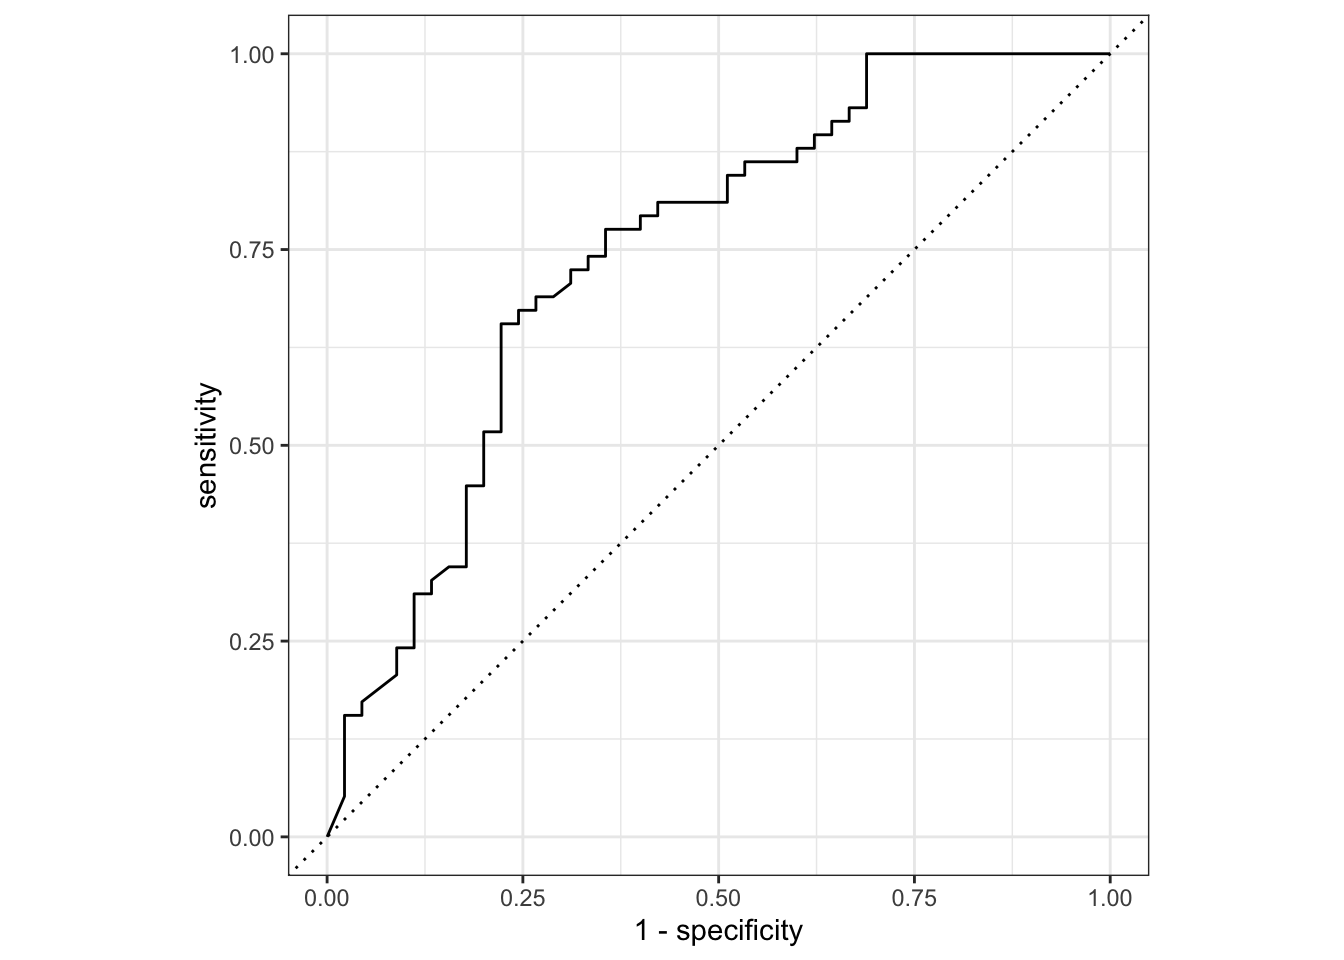
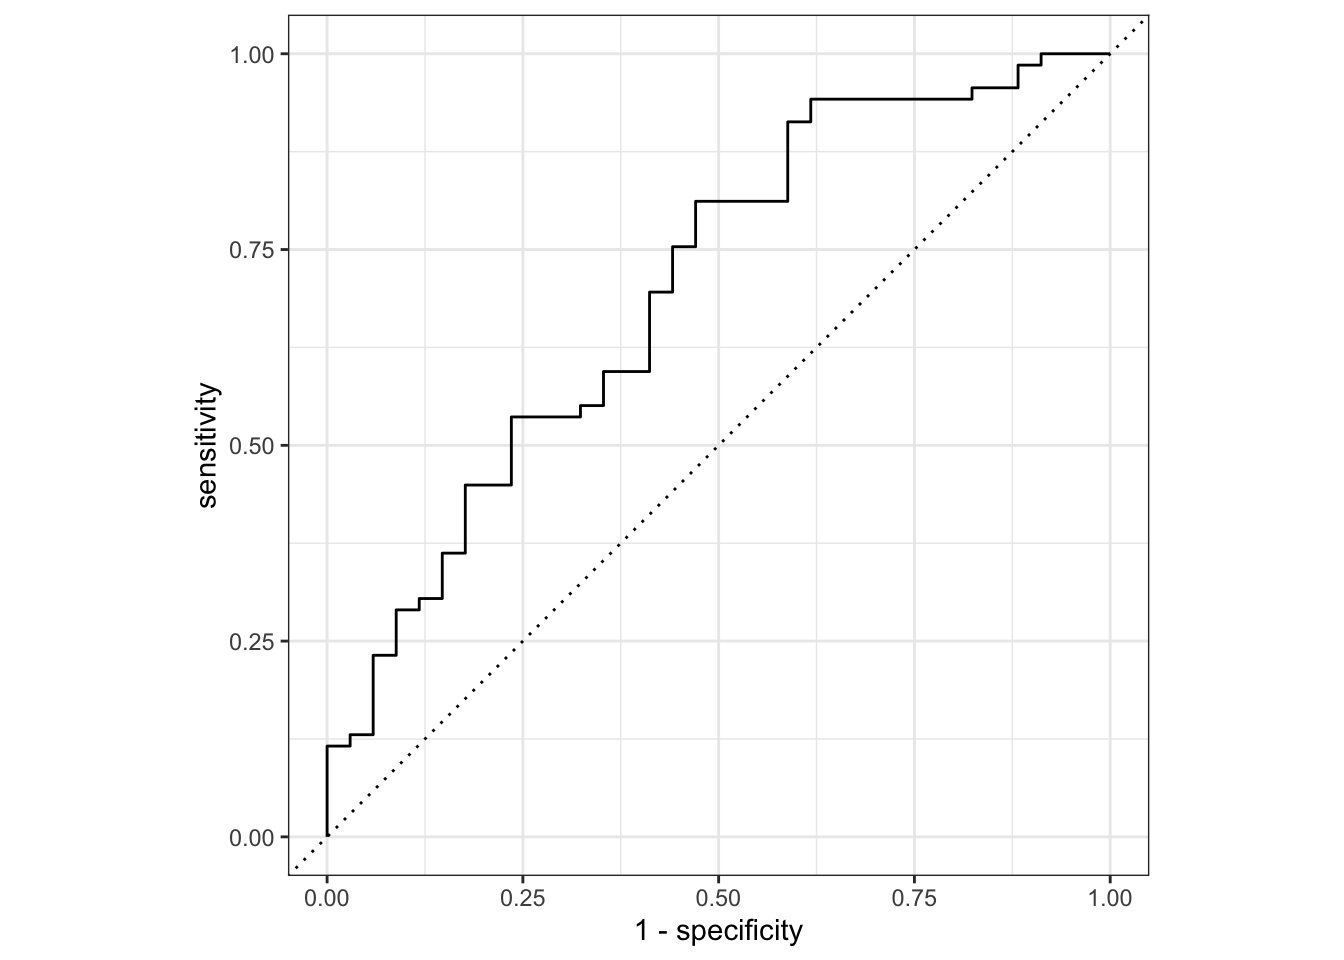
cleaning

diff --git a/docs/classification-knn.html b/docs/classification-knn.html
@@ -574,7 +574,7 @@ code span.wa { color: #60a0b0; font-weight: bold; font-style: italic; } /* Warni
 </header><div class="cell">
 
 </div>
-<p><em>Version vom November 25, 2022 um 10:18:04</em></p>
+<p><em>Version vom November 25, 2022 um 10:59:05</em></p>
 <div class="quarto-figure quarto-figure-center">
 <figure class="figure"><p><img src="images/caution.png" class="img-fluid figure-img" style="width:50.0%"></p>
 </figure>
@@ -840,8 +840,6 @@ code span.wa { color: #60a0b0; font-weight: bold; font-style: italic; } /* Warni
 <p>Soweit so gut. Und wie entscheide ich jetzt was weit weg ist? Wenn wir uns mit dem <span class="math inline">\(k\)</span>-NN Algorithmus näher beschäftigen würden, dann werden wir feststellen, dass es eine Vielzahl an Abstandsmaßen gibt. Wir du dir vorstellen kannst, kann man die Entfernung zwischen zwei Punkten als den absoluten Abstand messen. Oder aber als den quadratischen Abstand. Es wäre auch möglich einen gewichteten Abstand einzuführen, so dass nähere Beobachtungen einen größeren Einfluss auf die Vorhersage haben als weiter entfernte Beobachtungen. Dann würden wir auch das Problem von geraden <span class="math inline">\(k\)</span> Anzahlen lösen. Du musst dann leider in den jeweiligen R Paketen schauen, welche Optionen es dort geben mag. Wir werden uns hier auf eins der R Pakete mit <code>kknn</code> konzentrieren.m</p>
 </section><section id="klassifikation" class="level2" data-number="52.4"><h2 data-number="52.4" class="anchored" data-anchor-id="klassifikation">
 <span class="header-section-number">52.4</span> Klassifikation</h2>
-<p>https://rpubs.com/Nilafhiosagam/574373</p>
-<p>https://parsnip.tidymodels.org/reference/nearest_neighbor.html</p>
 <div class="cell">
 <div class="sourceCode" id="cb3"><pre class="downlit sourceCode r code-with-copy"><code class="sourceCode R"><span><span class="va">pig_data_split</span> <span class="op">&lt;-</span> <span class="fu">initial_split</span><span class="op">(</span><span class="va">pig_tbl</span>, prop <span class="op">=</span> <span class="fl">3</span><span class="op">/</span><span class="fl">4</span><span class="op">)</span></span>
 <span></span>
@@ -889,7 +887,7 @@ code span.wa { color: #60a0b0; font-weight: bold; font-style: italic; } /* Warni
 <pre><code># A tibble: 1 × 3
   .metric .estimator .estimate
   &lt;chr&gt;   &lt;chr&gt;          &lt;dbl&gt;
-1 roc_auc binary         0.746</code></pre>
+1 roc_auc binary         0.699</code></pre>
 </div>
 </div>
 <div class="cell">
@@ -899,7 +897,7 @@ code span.wa { color: #60a0b0; font-weight: bold; font-style: italic; } /* Warni
 <pre><code># A tibble: 1 × 3
   .metric  .estimator .estimate
   &lt;chr&gt;    &lt;chr&gt;          &lt;dbl&gt;
-1 accuracy binary         0.680</code></pre>
+1 accuracy binary         0.689</code></pre>
 </div>
 </div>
 </section><section id="resampling" class="level2" data-number="52.5"><h2 data-number="52.5" class="anchored" data-anchor-id="resampling">
@@ -934,8 +932,8 @@ code span.wa { color: #60a0b0; font-weight: bold; font-style: italic; } /* Warni
 <pre><code># A tibble: 2 × 6
   .metric  .estimator  mean     n std_err .config             
   &lt;chr&gt;    &lt;chr&gt;      &lt;dbl&gt; &lt;int&gt;   &lt;dbl&gt; &lt;chr&gt;               
-1 accuracy binary     0.654    10  0.0179 Preprocessor1_Model1
-2 roc_auc  binary     0.657    10  0.0239 Preprocessor1_Model1</code></pre>
+1 accuracy binary     0.628    10  0.0219 Preprocessor1_Model1
+2 roc_auc  binary     0.662    10  0.0240 Preprocessor1_Model1</code></pre>
 </div>
 </div>
 </section><section id="tuning" class="level2" data-number="52.6"><h2 data-number="52.6" class="anchored" data-anchor-id="tuning">
@@ -1002,11 +1000,11 @@ Computational engine: kknn </code></pre>
 <pre><code># A tibble: 5 × 9
   neighbors weight_func dist_power .metric  .estimator  mean     n std_err
       &lt;int&gt; &lt;chr&gt;            &lt;dbl&gt; &lt;chr&gt;    &lt;chr&gt;      &lt;dbl&gt; &lt;int&gt;   &lt;dbl&gt;
-1        10 rectangular          2 accuracy binary     0.706     3  0.0319
-2        10 rectangular          1 accuracy binary     0.702     3  0.0360
-3        10 triangular           1 accuracy binary     0.689     3  0.0312
-4        10 triangular           2 accuracy binary     0.680     3  0.0445
-5         1 rectangular          1 accuracy binary     0.618     3  0.0319
+1        10 rectangular          2 accuracy binary     0.641     3  0.0202
+2        10 rectangular          1 accuracy binary     0.605     3  0.0360
+3        10 triangular           1 accuracy binary     0.592     3  0.0202
+4        10 triangular           2 accuracy binary     0.586     3  0.0197
+5         1 rectangular          2 accuracy binary     0.540     3  0.0212
 # … with 1 more variable: .config &lt;chr&gt;</code></pre>
 </div>
 </div>
@@ -1060,8 +1058,8 @@ Computational engine: kknn </code></pre>
 <pre><code># A tibble: 2 × 4
   .metric  .estimator .estimate .config             
   &lt;chr&gt;    &lt;chr&gt;          &lt;dbl&gt; &lt;chr&gt;               
-1 accuracy binary         0.709 Preprocessor1_Model1
-2 roc_auc  binary         0.756 Preprocessor1_Model1</code></pre>
+1 accuracy binary         0.689 Preprocessor1_Model1
+2 roc_auc  binary         0.713 Preprocessor1_Model1</code></pre>
 </div>
 <div class="sourceCode" id="cb34"><pre class="downlit sourceCode r code-with-copy"><code class="sourceCode R"><span><span class="va">final_fit</span> <span class="op">%&gt;%</span></span>
 <span>  <span class="fu">collect_predictions</span><span class="op">(</span><span class="op">)</span> <span class="op">%&gt;%</span> </span>
@@ -1097,16 +1095,16 @@ Computational engine: kknn </code></pre>
 <pre><code># A tibble: 309 × 14
    cluster   age activity   crp bloodpressure weight creatinin infected sex_male
      &lt;int&gt; &lt;dbl&gt;    &lt;dbl&gt; &lt;dbl&gt;         &lt;dbl&gt;  &lt;dbl&gt;     &lt;dbl&gt; &lt;fct&gt;       &lt;dbl&gt;
- 1       2    57     14.3  20.9          53.1   15.1      2.9  1               1
- 2       2    60     15.5  19.8          51.4   18.3      3.84 1               1
- 3       2    55     14.8  20.5          52.8   20.2      6.3  1               1
- 4       1    66     14.3  20.2          58.0   17.1      5.68 0               1
- 5       2    61     14    21.2          52.2   18.7      3.91 1               1
- 6       2    57     13.8  20.6          53.2   16.4      8.03 1               1
- 7       1    65     13.1  21.2          61.3   17.5      3.98 1               1
- 8       3    56     17.3  17.4          57     17.0      6.22 0               1
- 9       3    59     13.3  18.0          57.8   19.3      4.71 0               1
-10       2    61     13.9  21.1          56.2   17.8      4.86 1               1
+ 1       2    65     9.38  17.1          58.1   18.4      4.31 0               0
+ 2       1    55    13.1   18.8          58.3   19.4      3.42 1               0
+ 3       1    54    12.5   19.4          59.4   21.2      6.22 0               0
+ 4       1    59    16.0   21.3          55.6   17.7      6.09 1               1
+ 5       3    63    16.6   19.4          60.5   17.4      3.88 1               1
+ 6       2    63    11.4   20.0          56.4   19.1      3.63 1               0
+ 7       2    63    12.6   18.7          55.3   18.4      5.14 0               0
+ 8       2    64    11.2   18.8          59.2   17.4      5.43 0               0
+ 9       3    64    10.1   18.3          63.5   22.8      4.63 1               0
+10       2    66    14.3   17.7          49.1   17.5      5.38 1               1
 # … with 299 more rows, and 5 more variables: location_northeast &lt;dbl&gt;,
 #   location_northwest &lt;dbl&gt;, location_west &lt;dbl&gt;, frailty_pre.frail &lt;dbl&gt;,
 #   frailty_robust &lt;dbl&gt;</code></pre>
